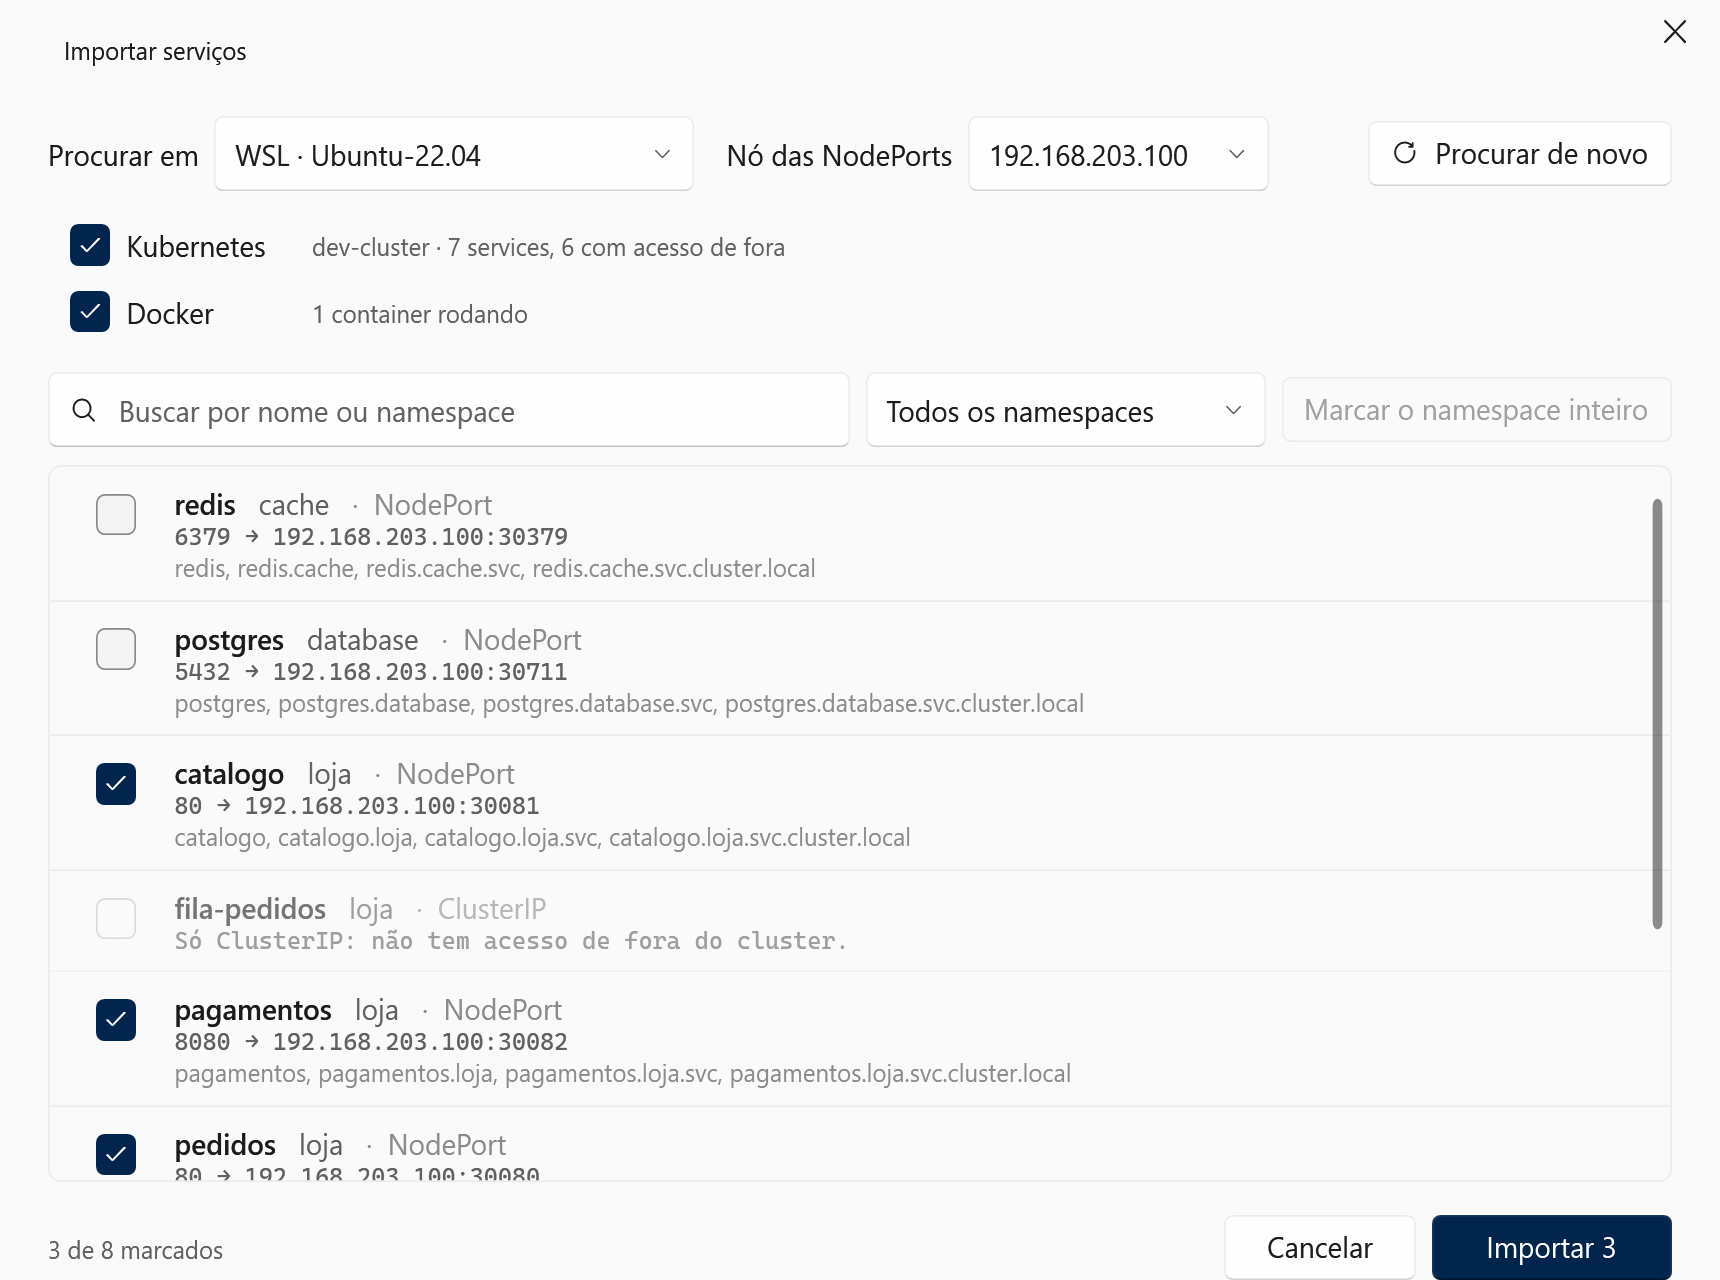
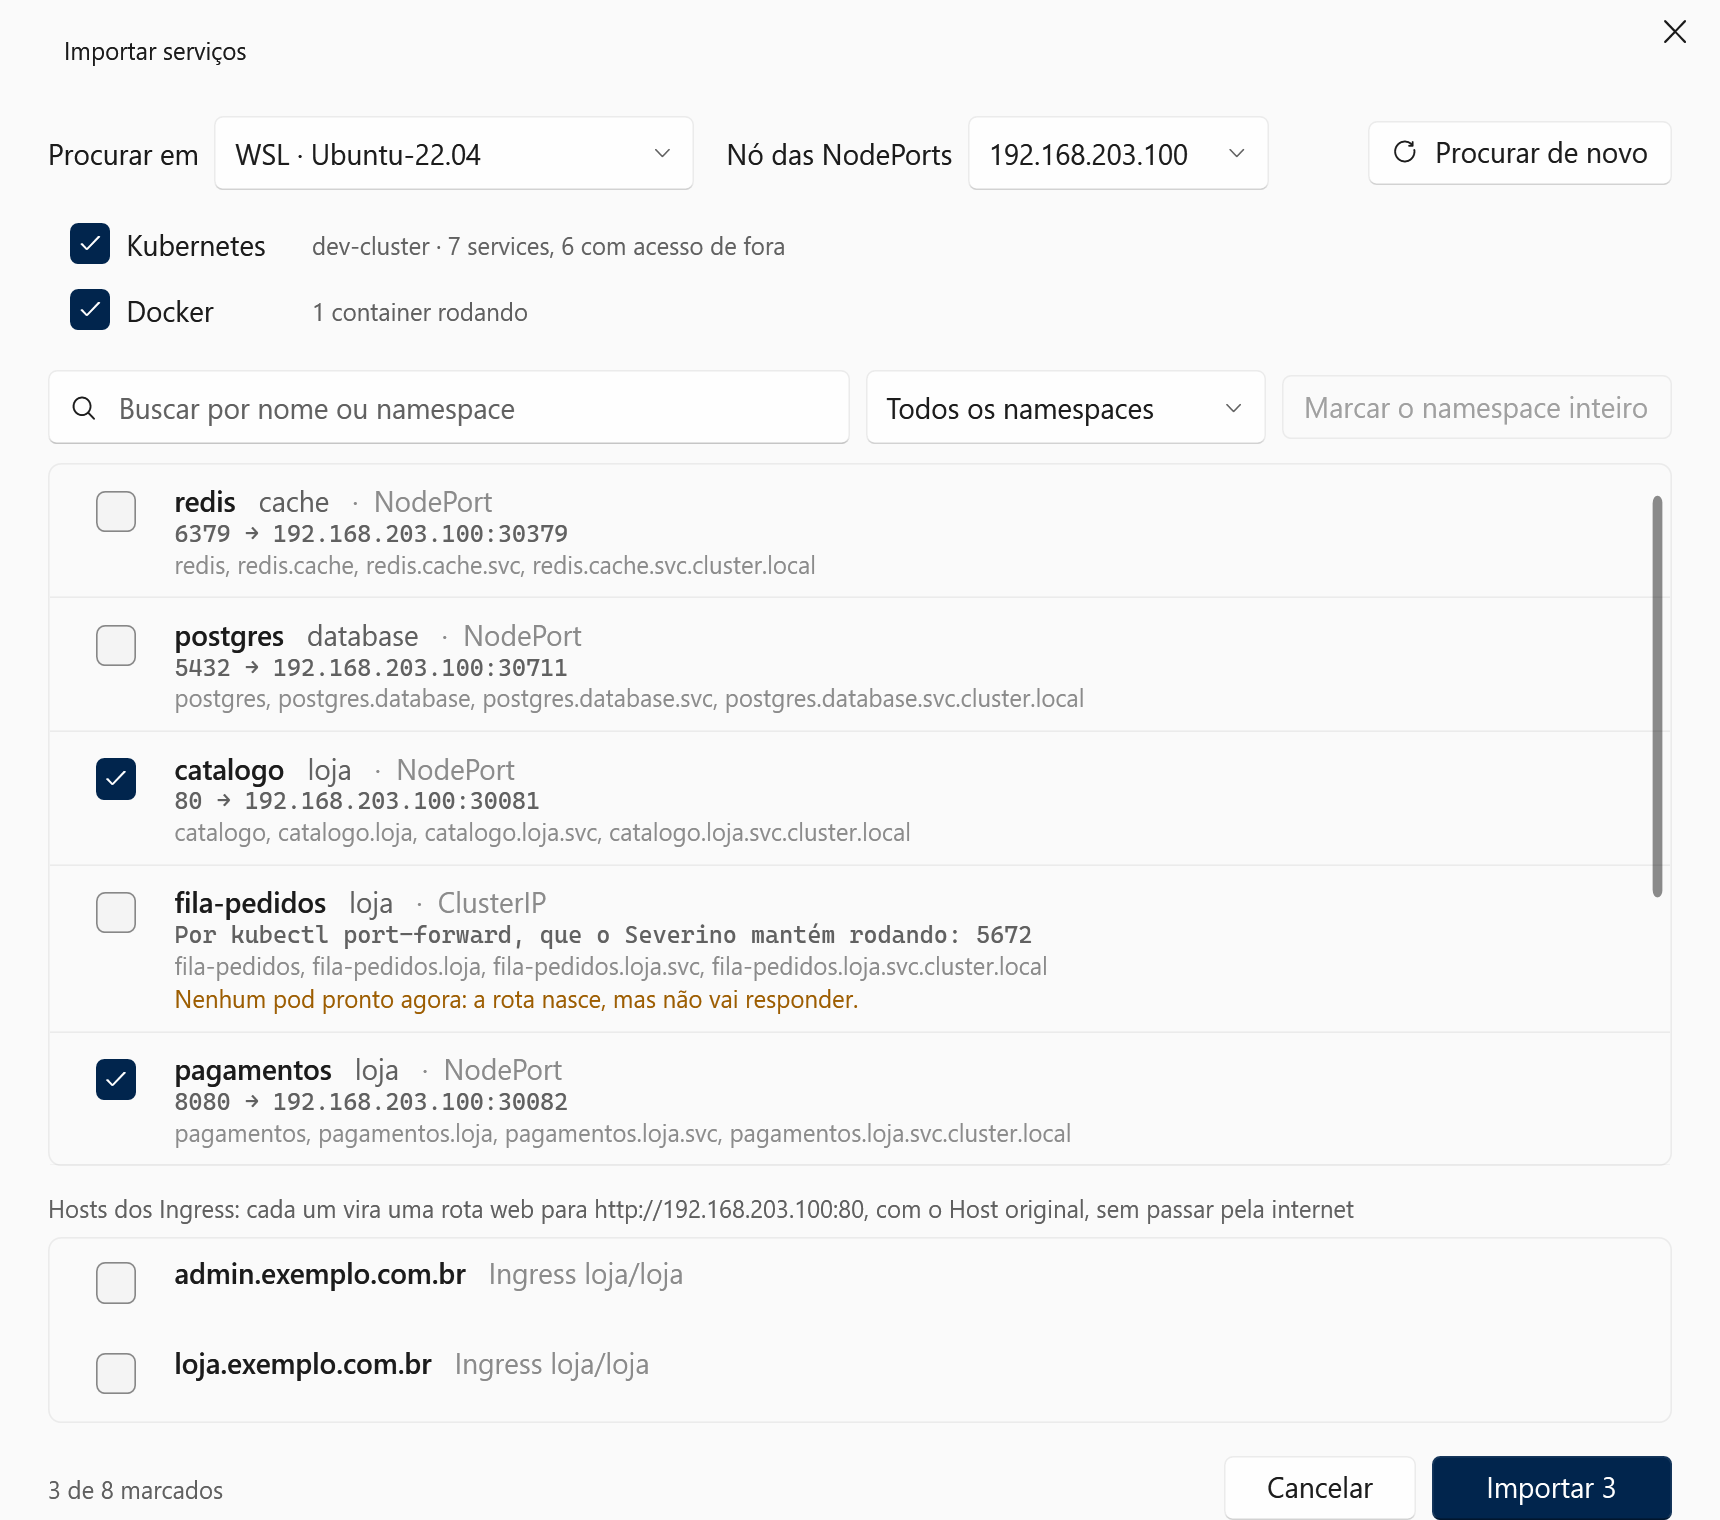
feat: site shows dns tab, wildcards, paths, groups and service extras

diff --git a/site/index.html b/site/index.html
@@ -25,6 +25,7 @@
     </a>
     <nav aria-label="Seções">
       <a href="#como-funciona">Como funciona</a>
+      <a href="#dns">DNS</a>
       <a href="#servicos">Kubernetes e Docker</a>
       <a href="#seguranca">O que ele mexe</a>
       <a href="https://github.com/lucassm02/severino">GitHub</a>
@@ -46,12 +47,12 @@
 
       <figure class="quadro-moldura">
         <img class="quadro-porteiro" src="assets/severino-rosto-480.png" width="240" height="240" alt="Severino, o porteiro, de quepe azul e bigode.">
-        <div class="quadro" role="img" aria-label="Quadro da portaria: callfred.sev na porta 3000, api.callfred.sev na 8080, admin.callfred.sev na 5173, pedidos.loja na 80 e postgres.database na 5432.">
+        <div class="quadro" role="img" aria-label="Quadro da portaria: callfred.sev na porta 3000, callfred.sev/api na 8080, qualquer nome abaixo de lojas.sev na 5173, pedidos.loja na 80 e postgres.database na 5432.">
           <p class="quadro-titulo" aria-hidden="true">Portaria</p>
           <ul aria-hidden="true">
             <li><span class="nome">callfred.sev</span><span class="pontos"></span><span class="porta">3000</span></li>
-            <li><span class="nome">api.callfred.sev</span><span class="pontos"></span><span class="porta">8080</span></li>
-            <li><span class="nome">admin.callfred.sev</span><span class="pontos"></span><span class="porta">5173</span></li>
+            <li><span class="nome">callfred.sev/api</span><span class="pontos"></span><span class="porta">8080</span></li>
+            <li><span class="nome">*.lojas.sev</span><span class="pontos"></span><span class="porta">5173</span></li>
             <li><span class="nome">pedidos.loja</span><span class="pontos"></span><span class="porta">80</span></li>
             <li><span class="nome">postgres.database</span><span class="pontos"></span><span class="porta">5432</span></li>
           </ul>
@@ -95,10 +96,10 @@
     <section class="janela" aria-labelledby="janela-titulo">
       <div class="janela-texto">
         <h2 id="janela-titulo">Todas as rotas numa janela só</h2>
-        <p>Cada rota mostra se o app do outro lado está respondendo. Um clique liga ou desliga; o botão de pausa, na bandeja, devolve os domínios à internet na hora.</p>
+        <p>Cada rota mostra se o app do outro lado está respondendo. Um clique liga ou desliga uma rota, e uma chave liga ou desliga um grupo inteiro; o botão de pausa, na bandeja, devolve os domínios à internet na hora.</p>
       </div>
       <img class="captura captura-grande" src="assets/app-rotas.png" width="1960" height="1400" loading="lazy"
-           alt="A janela do Severino com as rotas callfred.sev, api.callfred.sev e admin.callfred.sev respondendo com HTTPS, docs.sev desligada, e os serviços pedidos, postgres e redis vindos do Kubernetes.">
+           alt="A janela do Severino com o grupo callfred: callfred.sev, callfred.sev/api, o curinga *.callfred.sev e admin.callfred.sev, todos respondendo com HTTPS; docs.sev desligada; e os serviços pedidos e postgres vindos do Kubernetes.">
       <div class="janela-par">
         <div class="janela-texto">
           <h3>Cada requisição, com status e tempo</h3>
@@ -107,6 +108,46 @@
         <img class="captura" src="assets/app-requisicoes.png" width="1960" height="1400" loading="lazy"
              alt="A aba Requisições, com chamadas GET e POST para api.callfred.sev, um WebSocket aberto e uma conexão TCP para postgres.database.">
       </div>
+    </section>
+
+    <section class="mais" aria-labelledby="mais-titulo">
+      <h2 id="mais-titulo">Para quando um nome por app não basta</h2>
+      <ul class="mais-lista">
+        <li>
+          <h3>Curinga</h3>
+          <p><strong>*.lojas.sev</strong> atende cliente42.lojas.sev, a.b.lojas.sev e qualquer outro nome abaixo, cada um com o seu certificado HTTPS. Um nome exato, como api.lojas.sev, continua tendo a sua própria rota.</p>
+        </li>
+        <li>
+          <h3>Um domínio, vários apps</h3>
+          <p><strong>callfred.sev/api</strong> vai para a API e o resto de callfred.sev vai para o front. O caminho mais longo vence, e dá para tirar o /api antes de repassar.</p>
+        </li>
+        <li>
+          <h3>Grupos</h3>
+          <p>As rotas de um projeto ficam juntas, e uma chave liga ou desliga todas de uma vez.</p>
+        </li>
+        <li>
+          <h3>Pelo terminal</h3>
+          <p>Um módulo PowerShell fala com o app aberto, com as mesmas regras das telas.</p>
+          <pre class="terminal" aria-label="Exemplo no PowerShell"><code><span class="prompt">PS&gt;</span> New-SeverinoRoute callfred.sev http://localhost:3000 -Https -Group callfred
+<span class="prompt">PS&gt;</span> Set-SeverinoDns sql.interno 10.0.0.8
+<span class="prompt">PS&gt;</span> Disable-SeverinoRoute -Group callfred</code></pre>
+        </li>
+      </ul>
+    </section>
+
+    <section class="dns" id="dns" aria-labelledby="dns-titulo">
+      <div class="dns-texto">
+        <h2 id="dns-titulo">O hosts inteiro, sem abrir o Bloco de Notas como administrador</h2>
+        <p class="secao-lead">A aba DNS guarda nomes que vão direto a um IP, como <strong>sql.interno</strong> para 10.0.0.8, e mostra tudo o que já estava no seu hosts.</p>
+        <ul class="fatos">
+          <li><strong>Valem com o app fechado.</strong> Como uma linha escrita à mão, e também no WSL.</li>
+          <li><strong>O que não é dele fica marcado.</strong> As linhas que outra pessoa ou outro programa escreveu aparecem como "fora do Severino". Editar uma delas pede confirmação, mostra como vai ficar e deixa um comentário no hosts dizendo o que mudou.</li>
+          <li><strong>Um nome serve de destino.</strong> Rotas e serviços podem apontar para gateway.k8s em vez do IP: mudar o IP num lugar só atualiza todos.</li>
+          <li><strong>Rede privada direto, o resto com confirmação.</strong> IPs da rede interna entram na hora; IP público e curinga pedem a confirmação de administrador do Windows.</li>
+        </ul>
+      </div>
+      <img class="captura" src="assets/app-dns.png" width="1960" height="1400" loading="lazy"
+           alt="A aba DNS: entradas do Severino como gateway.k8s, destino de 3 serviços, e staging.exemplo.com.br aguardando aprovação; abaixo, as linhas do hosts que não são do Severino, marcadas.">
     </section>
 
     <section class="servicos" id="servicos" aria-labelledby="servicos-titulo">
@@ -118,6 +159,9 @@
           <li><strong>Os quatro nomes.</strong> pedidos, pedidos.loja, pedidos.loja.svc e pedidos.loja.svc.cluster.local levam ao mesmo lugar: a NodePort do service, com o nome original na requisição.</li>
           <li><strong>Qualquer protocolo.</strong> HTTP, gRPC, Postgres, Redis: cada serviço ganha um endereço próprio e o tráfego passa byte a byte.</li>
           <li><strong>Docker pelo nome do Compose.</strong> orchestrator:4000 chega à porta publicada do container, seja qual for.</li>
+          <li><strong>Só ClusterIP também.</strong> Para o que não tem acesso de fora, o Severino mantém um kubectl port-forward rodando e o reinicia se a VPN cair.</li>
+          <li><strong>Acompanha sozinho.</strong> Recriou o container em outra porta? A rota se corrige em segundos, sem clique.</li>
+          <li><strong>O nome público pelo caminho curto.</strong> Os hosts dos Ingress viram rotas direto para o gateway interno, sem dar a volta pela internet.</li>
           <li><strong>Apps no WSL também.</strong> As distros que você escolher recebem os mesmos nomes, e o que roda nelas chama os serviços do mesmo jeito.</li>
         </ul>
       </div>
@@ -138,11 +182,11 @@ app=&gt;</code></pre>
       <dl class="lista-seguranca">
         <div>
           <dt>Arquivo hosts</dt>
-          <dd>Só um bloco marcado, sempre com endereços de loopback. Pausar ou fechar o app esvazia o bloco.</dd>
+          <dd>Dois blocos marcados: o das rotas, sempre com endereços de loopback, que pausar ou fechar o app esvazia; e o das entradas DNS, que fica. Linhas de fora só mudam quando você pede, com um comentário acima.</dd>
         </div>
         <div>
           <dt>Serviço auxiliar</dt>
-          <dd>É a única parte que roda como administrador, e só grava esse bloco e limpa o cache de DNS. O app em si roda como você.</dd>
+          <dd>É a única parte que roda como administrador. Grava os blocos do hosts, responde os nomes curinga num DNS só dele em 127.53.0.1 e cria as regras do Windows que mandam esses sufixos para lá. IP público e sufixo curinga novos só entram depois da sua confirmação no aviso do Windows. O app em si roda como você.</dd>
         </div>
         <div>
           <dt>Proxy</dt>
@@ -154,7 +198,7 @@ app=&gt;</code></pre>
         </div>
         <div>
           <dt>Ir embora</dt>
-          <dd>"Limpar tudo", nas configurações, e o desinstalador tiram o que o Severino colocou: o bloco do hosts, a autoridade certificadora, a inicialização automática e os nomes nas distros do WSL.</dd>
+          <dd>"Limpar tudo", nas configurações, e o desinstalador tiram o que o Severino colocou: os blocos do hosts, as regras de DNS, a autoridade certificadora, a inicialização automática e os nomes nas distros do WSL.</dd>
         </div>
       </dl>
     </section>

diff --git a/site/styles.css b/site/styles.css
@@ -385,6 +385,48 @@ p { margin: 0; }
   .janela-par { grid-template-columns: minmax(0, 1fr); }
 }
 
+/* ---------- More than one name per app ---------- */
+
+.mais {
+  max-width: var(--largura);
+  margin: 0 auto;
+  padding: clamp(56px, 8vw, 104px) var(--gutter) clamp(40px, 6vw, 72px);
+}
+
+.mais-lista {
+  list-style: none;
+  margin: 40px 0 0;
+  padding: 0;
+  display: grid;
+  grid-template-columns: repeat(2, minmax(0, 1fr));
+  gap: 40px clamp(28px, 5vw, 64px);
+}
+.mais-lista li { border-top: 3px solid var(--farda); padding-top: 18px; }
+.mais-lista p { margin-top: 10px; color: var(--texto-suave); }
+.mais-lista strong { color: var(--farda); font-weight: 600; }
+.mais-lista .terminal { margin-top: 16px; font-size: 0.8rem; }
+
+@media (max-width: 860px) {
+  .mais-lista { grid-template-columns: minmax(0, 1fr); }
+}
+
+/* ---------- DNS: a band of its own, so the light sections do not run together ---------- */
+
+.dns {
+  background: #e2e8f1;
+  padding: clamp(56px, 8vw, 104px) max(var(--gutter), calc((100% - var(--largura)) / 2 + var(--gutter)));
+  display: grid;
+  grid-template-columns: minmax(0, 0.9fr) minmax(0, 1.1fr);
+  gap: clamp(32px, 5vw, 64px);
+  align-items: center;
+}
+.dns .secao-lead strong { color: var(--farda); }
+.dns .captura { box-shadow: 0 24px 48px -24px rgb(1 29 65 / 0.45), 0 0 0 1px var(--linha); }
+
+@media (max-width: 900px) {
+  .dns { grid-template-columns: minmax(0, 1fr); }
+}
+
 /* ---------- Services ---------- */
 
 .servicos {
